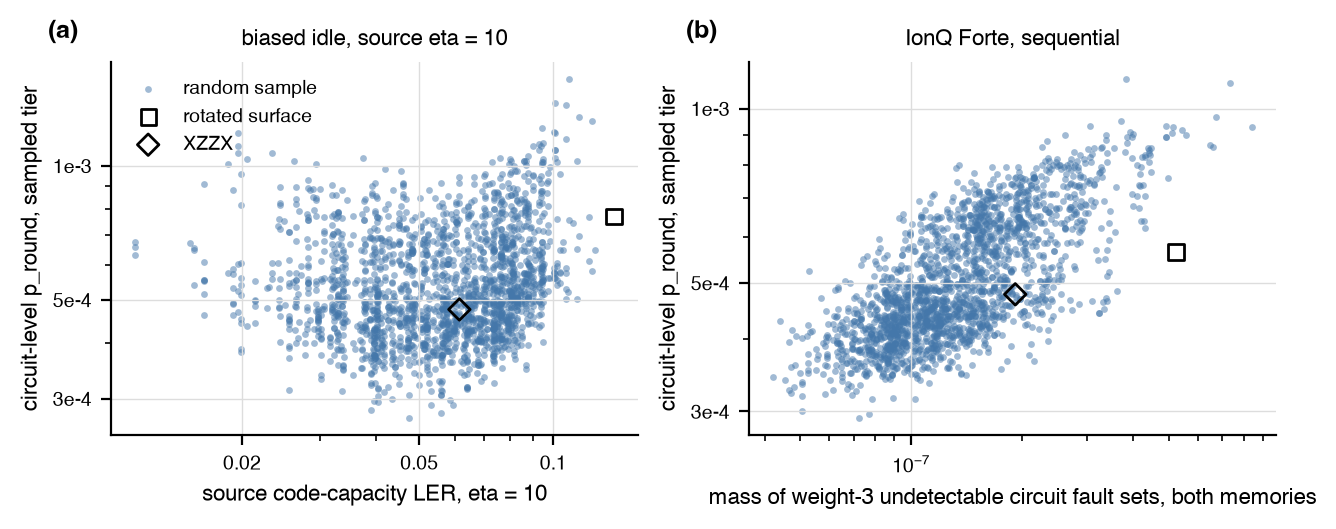
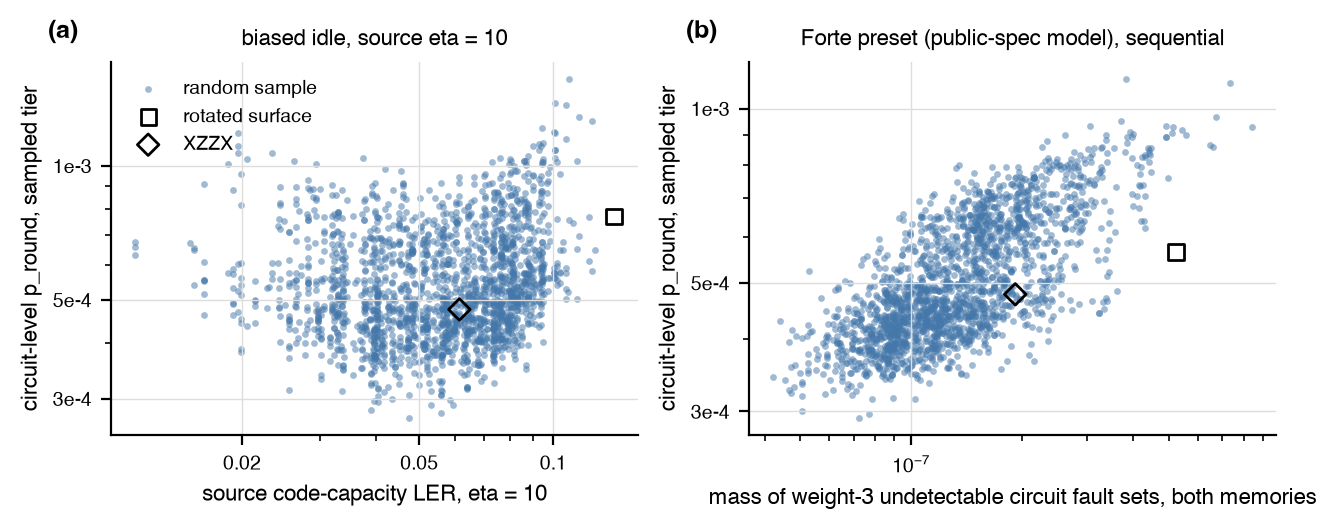
SAT reports: name the Forte case as the public-spec preset model it is

Changed region(s): [[0.5831, 0.0605, 0.9207, 0.0907]]

diff --git a/src/autoqec_sim/experiments/sat_population.py b/src/autoqec_sim/experiments/sat_population.py
@@ -70,7 +70,7 @@ CASE_TITLES = {
     "idle_eta_4": "biased idle, source eta = 4",
     "idle_eta_10": "biased idle, source eta = 10",
     "all_eta_10": "every channel biased, source eta = 10",
-    "forte": "IonQ Forte, sequential",
+    "forte": "Forte preset (public-spec model), sequential",
 }
 CASE_SOURCE_ETA = {"idle_eta_4": 4.0, "idle_eta_10": 10.0, "all_eta_10": 10.0, "forte": 1.0}
 PROXY_KEYS = ("p_round", "layers", "batches", "two_qubit_gates", "d_circ", "d_circ_mass", "mechanisms")
@@ -620,8 +620,12 @@ becomes Z tailoring, and scored by the circuit-level memory objective,
 {settings['rounds']} rounds, under four cases: a depolarizing profile with a
 biased idle channel at source eta 4 and 10 (bias parameter eta / 2, so the
 Z rate is eta times each of the X and Y rates), the same profile with
-every channel biased at source eta 10, and the IonQ Forte preset with
-sequential timing. Tiers: proxy (maximum-likelihood failure over fault
+every channel biased at source eta 10, and the package's Forte preset
+with sequential timing at a quarter of its rates. That preset is a noise
+model assembled from public specifications (arXiv:2308.05071 and the
+product page, with the assumptions listed in the noise-presets page); its
+numbers describe the model, not measurements on any device. Tiers: proxy
+(maximum-likelihood failure over fault
 sets of weight at most two, closed form) and sampled (Monte Carlo from the
 detector error model with a lookup decoder built from the same fault
 sets, {settings['shots']:,} shots and at least {settings['min_failures']} failures

diff --git a/src/autoqec_sim/experiments/sat_codes.py b/src/autoqec_sim/experiments/sat_codes.py
@@ -97,7 +97,7 @@ def report_tables(out: dict) -> str:
     lines = []
     for name in next(iter(out["codes"].values()))["cases"]:
         eta = out["codes"][ids[0]]["cases"][name]["eta"]
-        head = f"source eta = {eta:g}" if eta is not None else "IonQ Forte, sequential"
+        head = f"source eta = {eta:g}" if eta is not None else "Forte preset (public-spec model), sequential"
         lines.append(f"\n### {head}\n")
         cols = " | ".join(f"{t} p_round" for t in tiers)
         lines.append(f"| code | d | CSS | source LER (eta = {eta:g}) | {cols} |" if eta is not None else f"| code | d | CSS | {cols} |")
@@ -138,8 +138,10 @@ worst. The source LER column is theirs; the p_round columns are
 autoqec-sim's circuit-level memory objective, {out['rounds']} rounds, under a
 depolarizing profile with a biased idle channel whose Z rate is eta times
 each of the X and Y rates (the codes are Hadamard-conjugated on every qubit
-so their X tailoring becomes Z tailoring), and under the IonQ Forte preset
-with sequential timing. Distances are recomputed exactly here.
+so their X tailoring becomes Z tailoring), and under the package's Forte
+preset with sequential timing, a noise model assembled from public
+specifications rather than a device measurement. Distances are recomputed
+exactly here.
 
 Two structural differences between the two scores. The source's channel is
 a single biased code-capacity channel with an exact maximum-likelihood

diff --git a/experiments/sat_population/REPORT.md b/experiments/sat_population/REPORT.md
@@ -19,8 +19,12 @@ becomes Z tailoring, and scored by the circuit-level memory objective,
 3 rounds, under four cases: a depolarizing profile with a
 biased idle channel at source eta 4 and 10 (bias parameter eta / 2, so the
 Z rate is eta times each of the X and Y rates), the same profile with
-every channel biased at source eta 10, and the IonQ Forte preset with
-sequential timing. Tiers: proxy (maximum-likelihood failure over fault
+every channel biased at source eta 10, and the package's Forte preset
+with sequential timing at a quarter of its rates. That preset is a noise
+model assembled from public specifications (arXiv:2308.05071 and the
+product page, with the assumptions listed in the noise-presets page); its
+numbers describe the model, not measurements on any device. Tiers: proxy
+(maximum-likelihood failure over fault
 sets of weight at most two, closed form) and sampled (Monte Carlo from the
 detector error model with a lookup decoder built from the same fault
 sets, 20,000 shots and at least 50 failures
@@ -47,8 +51,8 @@ Over the random sample. Spearman is between the source's code-capacity rate at t
 | biased idle, source eta = 10 | sampled | 0.18 | 0 / 20 |
 | every channel biased, source eta = 10 | proxy | 0.21 | 0 / 20 |
 | every channel biased, source eta = 10 | sampled | 0.18 | 0 / 20 |
-| IonQ Forte, sequential | proxy | -0.01 | 0 / 20 |
-| IonQ Forte, sequential | sampled | 0.00 | 0 / 20 |
+| Forte preset (public-spec model), sequential | proxy | -0.01 | 0 / 20 |
+| Forte preset (public-spec model), sequential | sampled | 0.00 | 0 / 20 |
 
 ## Do the source's best codes score better than random ones?
 
@@ -62,8 +66,8 @@ Median p_round (interquartile range) per group, and the fraction of each group b
 | biased idle, source eta = 10 | sampled | 0.00051 (0.00044, 0.00065) | 0.00063 (0.00059, 0.00068) | 0.00074 (0.00069, 0.00092) | 2% | 0% |
 | every channel biased, source eta = 10 | proxy | 0.00045 (0.00038, 0.00058) | 0.00059 (0.00056, 0.00066) | 0.00076 (0.00075, 0.00082) | 0% | 0% |
 | every channel biased, source eta = 10 | sampled | 0.00046 (0.00039, 0.00059) | 0.00064 (0.00055, 0.00068) | 0.00078 (0.00070, 0.00096) | 0% | 0% |
-| IonQ Forte, sequential | proxy | 0.00046 (0.00042, 0.00061) | 0.00051 (0.00049, 0.00054) | 0.00058 (0.00056, 0.00067) | 0% | 0% |
-| IonQ Forte, sequential | sampled | 0.00047 (0.00042, 0.00061) | 0.00048 (0.00046, 0.00054) | 0.00060 (0.00055, 0.00071) | 44% | 2% |
+| Forte preset (public-spec model), sequential | proxy | 0.00046 (0.00042, 0.00061) | 0.00051 (0.00049, 0.00054) | 0.00058 (0.00056, 0.00067) | 0% | 0% |
+| Forte preset (public-spec model), sequential | sampled | 0.00047 (0.00042, 0.00061) | 0.00048 (0.00046, 0.00054) | 0.00060 (0.00055, 0.00071) | 44% | 2% |
 
 ## What predicts the circuit-level rate
 
@@ -76,7 +80,7 @@ Constant across the random sample, so carrying no information here: batches = 2,
 | biased idle, source eta = 4 | 0.28 | 0.72 | -0.00 | 0.01 | 0.61 | 0.61 |
 | biased idle, source eta = 10 | 0.43 | 0.71 | -0.09 | 0.02 | 0.53 | 0.53 |
 | every channel biased, source eta = 10 | 0.50 | 0.73 | -0.12 | 0.02 | 0.54 | 0.54 |
-| IonQ Forte, sequential | n/a | 0.70 | -0.07 | 0.00 | 0.47 | 0.47 |
+| Forte preset (public-spec model), sequential | n/a | 0.70 | -0.07 | 0.00 | 0.47 | 0.47 |
 
 ## Best codes of the population
 
@@ -128,7 +132,7 @@ rotated surface p_round 0.00063, XZZX p_round 0.00051; codes below rotated surfa
 | D60277 | 0.00025 | 12408 | no | 2 | 13 |
 | D44624 | 0.00025 | 18750 | no | 2 | 12 |
 
-### IonQ Forte, sequential
+### Forte preset (public-spec model), sequential
 
 rotated surface p_round 0.00057, XZZX p_round 0.00048; codes below rotated surface: 1454 of 2143, below XZZX: 1060 of 2143.
 
@@ -259,7 +263,7 @@ The 8 best codes of each case at the sampled tier, and the references, re-scored
 | xzzx | 0.00042 | 3% | 0.00051 | reference |
 | rotated_surface | 0.00065 | 3% | 0.00063 | reference |
 
-### IonQ Forte, sequential
+### Forte preset (public-spec model), sequential
 
 | code | confirmed p_round | rel. std. err. | first pass | source rank |
 |---|---|---|---|---|

diff --git a/experiments/sat_codes/REPORT.md b/experiments/sat_codes/REPORT.md
@@ -15,8 +15,10 @@ worst. The source LER column is theirs; the p_round columns are
 autoqec-sim's circuit-level memory objective, 3 rounds, under a
 depolarizing profile with a biased idle channel whose Z rate is eta times
 each of the X and Y rates (the codes are Hadamard-conjugated on every qubit
-so their X tailoring becomes Z tailoring), and under the IonQ Forte preset
-with sequential timing. Distances are recomputed exactly here.
+so their X tailoring becomes Z tailoring), and under the package's Forte
+preset with sequential timing, a noise model assembled from public
+specifications rather than a device measurement. Distances are recomputed
+exactly here.
 
 Two structural differences between the two scores. The source's channel is
 a single biased code-capacity channel with an exact maximum-likelihood
@@ -106,7 +108,7 @@ Spearman(source LER, proxy p_round) over 17 codes: 0.25
 
 Spearman(source LER, sampled p_round) over 17 codes: 0.26
 
-### IonQ Forte, sequential
+### Forte preset (public-spec model), sequential
 
 | code | d | CSS | proxy p_round | sampled p_round |
 |---|---|---|---|---|

diff --git a/docs/experiments.md b/docs/experiments.md
@@ -243,7 +243,9 @@ holds the tables and the figure. The `prepare` step reads the source
 repository's `experiments/surface/` directory and writes
 `experiments/sat_population/population.json`, which is committed.
 
-Findings, from the report. The 100,000 sampled codes contain 62,876
+Findings, from the report. Where a case is named Forte, it is the
+package's Forte preset, a noise model assembled from public
+specifications, not a measurement on a device. The 100,000 sampled codes contain 62,876
 distinct generator lists but 43,563 distinct stabilizer groups. The
 source's code-capacity rate at bias 10 has Spearman 0.09 to 0.21 with the
 circuit-level rate under the biased cases and 0.00 under Forte, and none
